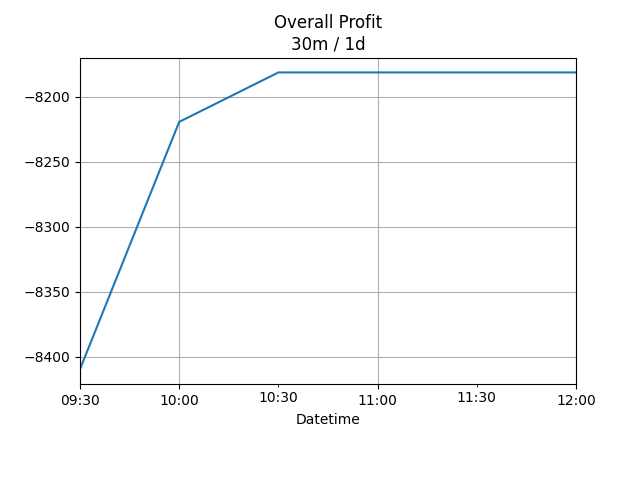
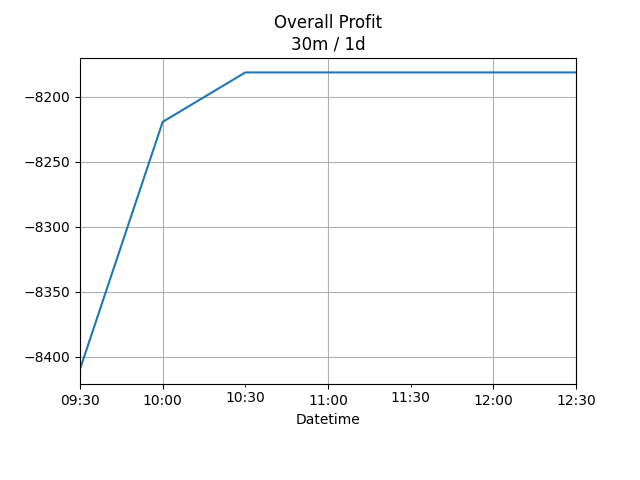
github action

diff --git a/record/mm/summary.md b/record/mm/summary.md
@@ -2,7 +2,7 @@
 ### $-8181.40
 |type|graph|data|
 |:---:|:---:|:---:|
-|30m / 1d|![net_profit](image/overall_30m-1d.png)|<table border="1" class="dataframe"> <thead> <tr style="text-align: center;"> <th>Datetime</th> <th>profit</th> </tr> </thead> <tbody> <tr> <td>09:30</td> <td>-8409.4</td> </tr> <tr> <td>10:00</td> <td>-8219.4</td> </tr> <tr> <td>10:30</td> <td>-8181.4</td> </tr> <tr> <td>11:00</td> <td>-8181.4</td> </tr> <tr> <td>11:30</td> <td>-8181.4</td> </tr> <tr> <td>12:00</td> <td>-8181.4</td> </tr> </tbody></table>|
+|30m / 1d|![net_profit](image/overall_30m-1d.png)|<table border="1" class="dataframe"> <thead> <tr style="text-align: center;"> <th>Datetime</th> <th>profit</th> </tr> </thead> <tbody> <tr> <td>09:30</td> <td>-8409.4</td> </tr> <tr> <td>10:00</td> <td>-8219.4</td> </tr> <tr> <td>10:30</td> <td>-8181.4</td> </tr> <tr> <td>11:00</td> <td>-8181.4</td> </tr> <tr> <td>11:30</td> <td>-8181.4</td> </tr> <tr> <td>12:00</td> <td>-8181.4</td> </tr> <tr> <td>12:30</td> <td>-8181.4</td> </tr> </tbody></table>|
 |1d / 5d|![net_profit](image/overall_1d-5d.png)|<table border="1" class="dataframe"> <thead> <tr style="text-align: center;"> <th>Date</th> <th>profit</th> </tr> </thead> <tbody> <tr> <td>2024-09-12</td> <td>-7497.4</td> </tr> <tr> <td>2024-09-13</td> <td>-7801.4</td> </tr> <tr> <td>2024-09-18</td> <td>-8561.4</td> </tr> <tr> <td>2024-09-19</td> <td>-7991.4</td> </tr> <tr> <td>2024-09-20</td> <td>-8181.4</td> </tr> </tbody></table>|
 |1wk / 1mo|![net_profit](image/overall_1wk-1mo.png)|<table border="1" class="dataframe"> <thead> <tr style="text-align: center;"> <th>Date</th> <th>profit</th> </tr> </thead> <tbody> <tr> <td>2024-08-19</td> <td>-6509.4</td> </tr> <tr> <td>2024-08-26</td> <td>-5521.4</td> </tr> <tr> <td>2024-09-02</td> <td>-6623.4</td> </tr> <tr> <td>2024-09-09</td> <td>-7801.4</td> </tr> <tr> <td>2024-09-16</td> <td>-8181.4</td> </tr> </tbody></table>|
 ---
@@ -10,7 +10,7 @@
 #### TECON BIOLOGY Co.LTD
 |price|profit|data|
 |:---:|:---:|:---:|
-|![price](image/002100.SZ_30m-1d_price.png)|![profit](image/002100.SZ_30m-1d_profit.png)|<table border="1" class="dataframe"> <thead> <tr style="text-align: center;"> <th>Datetime</th> <th>profit</th> </tr> </thead> <tbody> <tr> <td>09:30</td> <td>-8409.4</td> </tr> <tr> <td>10:00</td> <td>-8219.4</td> </tr> <tr> <td>10:30</td> <td>-8181.4</td> </tr> <tr> <td>11:00</td> <td>-8181.4</td> </tr> <tr> <td>11:30</td> <td>-8181.4</td> </tr> <tr> <td>12:00</td> <td>-8181.4</td> </tr> </tbody></table>|
+|![price](image/002100.SZ_30m-1d_price.png)|![profit](image/002100.SZ_30m-1d_profit.png)|<table border="1" class="dataframe"> <thead> <tr style="text-align: center;"> <th>Datetime</th> <th>profit</th> </tr> </thead> <tbody> <tr> <td>09:30</td> <td>-8409.4</td> </tr> <tr> <td>10:00</td> <td>-8219.4</td> </tr> <tr> <td>10:30</td> <td>-8181.4</td> </tr> <tr> <td>11:00</td> <td>-8181.4</td> </tr> <tr> <td>11:30</td> <td>-8181.4</td> </tr> <tr> <td>12:00</td> <td>-8181.4</td> </tr> <tr> <td>12:30</td> <td>-8181.4</td> </tr> </tbody></table>|
 |![price](image/002100.SZ_1d-5d_price.png)|![profit](image/002100.SZ_1d-5d_profit.png)|<table border="1" class="dataframe"> <thead> <tr style="text-align: center;"> <th>Date</th> <th>profit</th> </tr> </thead> <tbody> <tr> <td>2024-09-12</td> <td>-7497.4</td> </tr> <tr> <td>2024-09-13</td> <td>-7801.4</td> </tr> <tr> <td>2024-09-18</td> <td>-8561.4</td> </tr> <tr> <td>2024-09-19</td> <td>-7991.4</td> </tr> <tr> <td>2024-09-20</td> <td>-8181.4</td> </tr> </tbody></table>|
 |![price](image/002100.SZ_1wk-1mo_price.png)|![profit](image/002100.SZ_1wk-1mo_profit.png)|<table border="1" class="dataframe"> <thead> <tr style="text-align: center;"> <th>Date</th> <th>profit</th> </tr> </thead> <tbody> <tr> <td>2024-08-19</td> <td>-6509.4</td> </tr> <tr> <td>2024-08-26</td> <td>-5521.4</td> </tr> <tr> <td>2024-09-02</td> <td>-6623.4</td> </tr> <tr> <td>2024-09-09</td> <td>-7801.4</td> </tr> <tr> <td>2024-09-16</td> <td>-8181.4</td> </tr> </tbody></table>|
 ---
